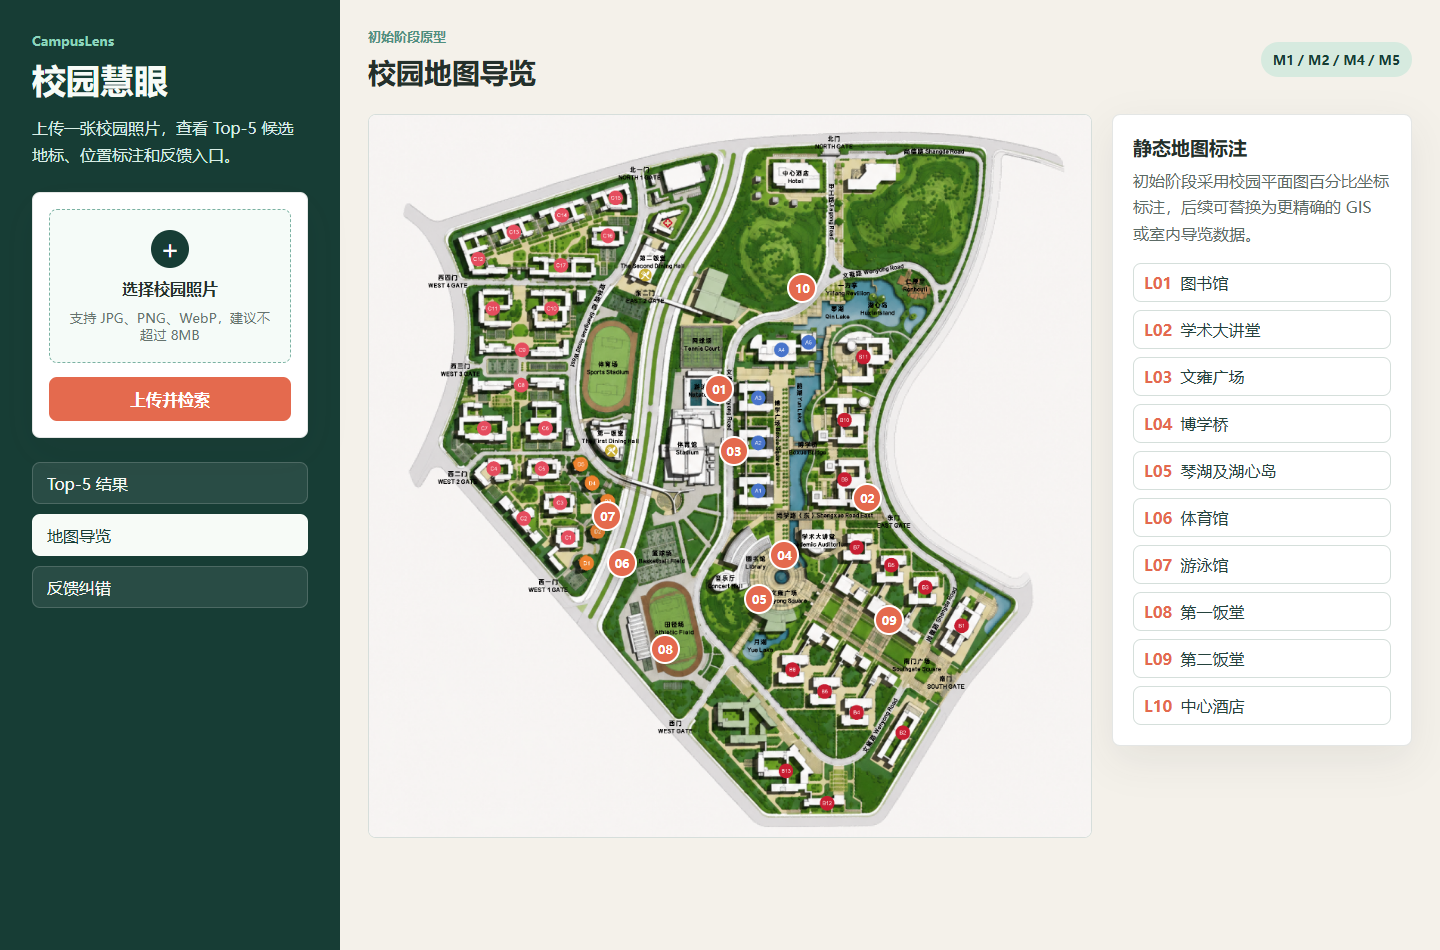
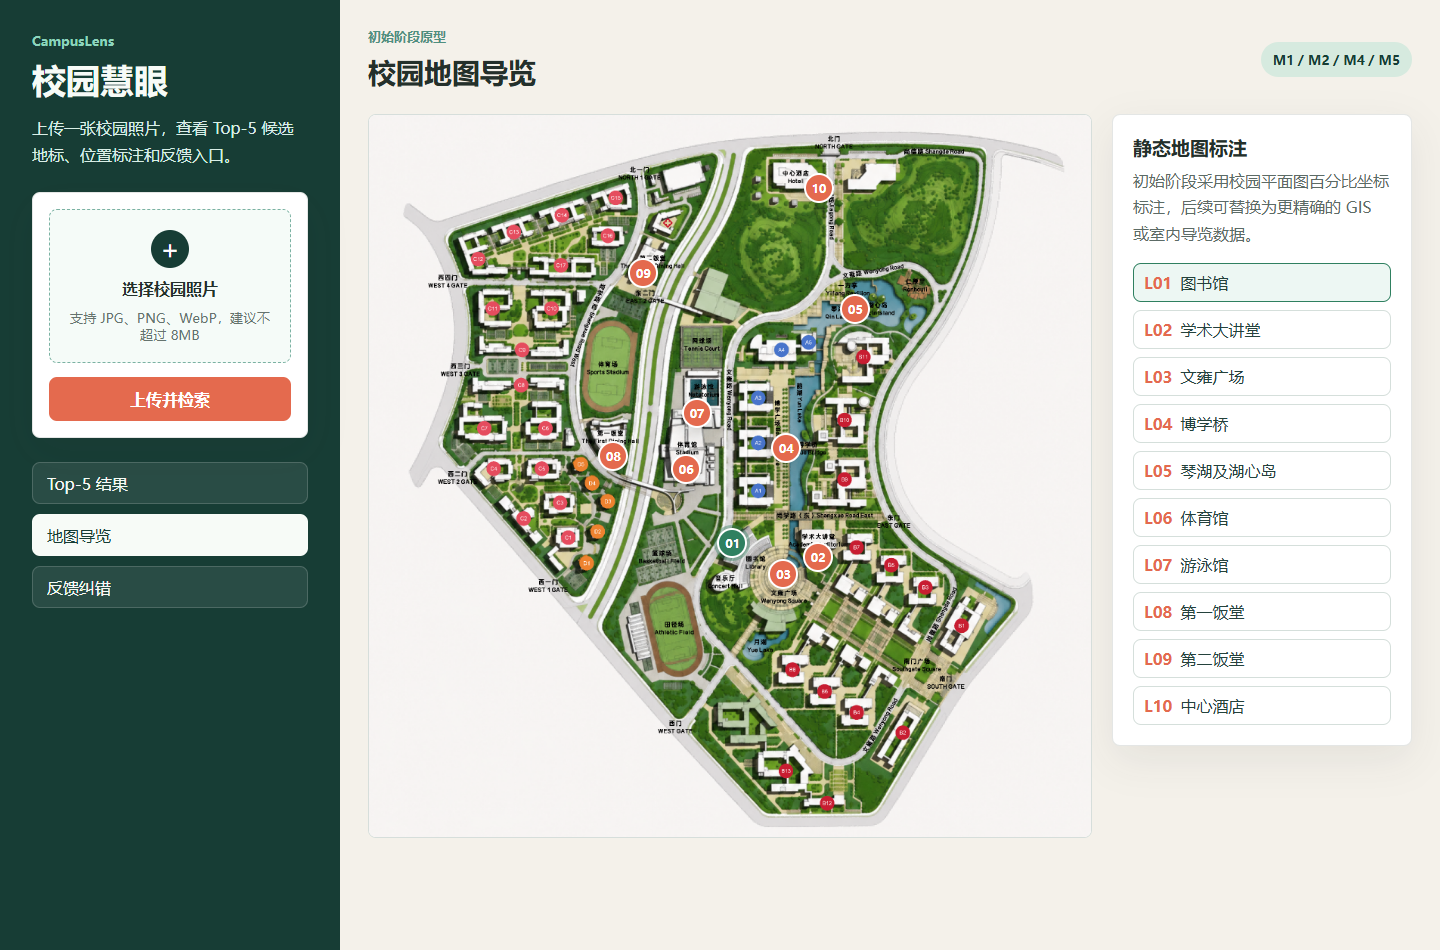
Sync landmark coords, map selection UI and docs
Update landmark coordinates across backend (LandmarkService), DB seed (seed_landmarks.sql) and frontend demo data to ensure consistent map markers. Enhance frontend map interaction: add active styling, selection class, stop-propagation click handler and selectMapLandmark logic; include corresponding CSS. Clarify project scope and workflow in multiple docs/READMEs (backend, frontend, API contract, runbook, development notes): first-week minimal engineering uses in-memory/demo Top-5 results, MySQL persistence and algorithm service integration are deferred, and landmark sample images are to be manually collected/organized per dataset rules. Also update prototype map image.

diff --git a/frontend/src/App.vue b/frontend/src/App.vue
@@ -77,9 +77,11 @@
             v-for="item in landmarks"
             :key="item.id"
             class="map-marker"
+            :class="{ active: item.id === selectedId }"
             :style="{ left: item.mapX + '%', top: item.mapY + '%' }"
             :title="item.name"
-            @click="selectLandmark(item.id)"
+            type="button"
+            @click.stop="selectMapLandmark(item.id)"
           >
             {{ item.code.slice(1) }}
           </button>
@@ -88,7 +90,13 @@
           <h3>静态地图标注</h3>
           <p>初始阶段采用校园平面图百分比坐标标注，后续可替换为更精确的 GIS 或室内导览数据。</p>
           <div class="legend-list">
-            <button v-for="item in landmarks" :key="item.code" @click="selectLandmark(item.id)">
+            <button
+              v-for="item in landmarks"
+              :key="item.code"
+              :class="{ active: item.id === selectedId }"
+              type="button"
+              @click="selectMapLandmark(item.id)"
+            >
               <span>{{ item.code }}</span>{{ item.name }}
             </button>
           </div>
@@ -132,16 +140,16 @@
 import { computed, onMounted, reactive, ref } from 'vue'
 
 const demoLandmarks = [
-  { id: 1, code: 'L01', name: '图书馆', englishName: 'Library', type: '建筑', summary: '校园核心学习空间，建筑体量大、外立面辨识度高。', description: '图书馆位于文雍广场附近，是学生自习、借阅和课程资料检索的主要场所。', locationText: '文雍广场附近', mapX: 48.5, mapY: 38 },
-  { id: 2, code: 'L02', name: '学术大讲堂', englishName: 'Academic Auditorium', type: '建筑', summary: '大型报告与答辩活动场所，适合作为答辩演示样本。', description: '学术大讲堂靠近东门，常用于学术报告、会议与集中教学活动。', locationText: '东门附近', mapX: 69, mapY: 53 },
-  { id: 3, code: 'L03', name: '文雍广场', englishName: 'Wenyong Square', type: '广场', summary: '校园开放空间与人流汇聚点，便于地图静态标注。', description: '文雍广场位于图书馆前，是校园公共活动与通行的重要节点。', locationText: '图书馆前', mapX: 50.5, mapY: 46.5 },
-  { id: 4, code: 'L04', name: '博学桥', englishName: 'Boxue Bridge', type: '桥梁', summary: '连接湖区两侧的桥梁景观，适合作为地标景观样本。', description: '博学桥位于韵湖沿线，桥体、湖面和周边道路共同形成稳定的视觉特征。', locationText: '韵湖沿线', mapX: 57.5, mapY: 61 },
-  { id: 5, code: 'L05', name: '琴湖及湖心岛', englishName: 'Qin Lake / Huxin Island', type: '湖区', summary: '湖泊与岛屿组合景观，外观特征明显。', description: '琴湖及湖心岛位于文雍路东侧，水域、绿化和湖心岛轮廓适合进行地标图像检索。', locationText: '文雍路东侧', mapX: 54, mapY: 67 },
-  { id: 6, code: 'L06', name: '体育馆', englishName: 'Stadium', type: '场馆', summary: '体育活动场馆，建筑边界清晰。', description: '体育馆位于文雍路西侧，服务课程教学、赛事活动和学生日常锻炼。', locationText: '文雍路西侧', mapX: 35, mapY: 62 },
-  { id: 7, code: 'L07', name: '游泳馆', englishName: 'Natatorium', type: '场馆', summary: '运动场馆类地标，适合与体育馆形成区分样本。', description: '游泳馆位于体育馆北侧，是运动场馆类地标。', locationText: '体育馆北侧', mapX: 33, mapY: 55.5 },
-  { id: 8, code: 'L08', name: '第一饭堂', englishName: 'The First Dining Hall', type: '生活服务', summary: '生活服务类建筑，面向学生日常场景。', description: '第一饭堂位于尚学路西侧，属于学生高频到达地点。', locationText: '尚学路西侧', mapX: 41, mapY: 74 },
-  { id: 9, code: 'L09', name: '第二饭堂', englishName: 'The Second Dining Hall', type: '生活服务', summary: '生活服务类建筑，可与第一饭堂对比识别。', description: '第二饭堂位于东二门附近，与第一饭堂同属生活服务类建筑。', locationText: '东二门附近', mapX: 72, mapY: 70 },
-  { id: 10, code: 'L10', name: '中心酒店', englishName: 'Hotel', type: '建筑', summary: '校内接待建筑，靠近北门且地图标注清晰。', description: '中心酒店位于北门内侧，主要用于校内接待和住宿服务。', locationText: '北门内侧', mapX: 60, mapY: 24 }
+  { id: 1, code: 'L01', name: '图书馆', englishName: 'Library', type: '建筑', summary: '校园核心学习空间，建筑体量大、外立面辨识度高。', description: '图书馆位于文雍广场附近，是学生自习、借阅和课程资料检索的主要场所。', locationText: '文雍广场附近', mapX: 50.31, mapY: 59.33 },
+  { id: 2, code: 'L02', name: '学术大讲堂', englishName: 'Academic Auditorium', type: '建筑', summary: '大型报告与答辩活动场所，适合作为答辩演示样本。', description: '学术大讲堂靠近东门，常用于学术报告、会议与集中教学活动。', locationText: '东门附近', mapX: 62.16, mapY: 61.22 },
+  { id: 3, code: 'L03', name: '文雍广场', englishName: 'Wenyong Square', type: '广场', summary: '校园开放空间与人流汇聚点，便于地图静态标注。', description: '文雍广场位于图书馆前，是校园公共活动与通行的重要节点。', locationText: '图书馆前', mapX: 57.37, mapY: 63.56 },
+  { id: 4, code: 'L04', name: '博学桥', englishName: 'Boxue Bridge', type: '桥梁', summary: '连接湖区两侧的桥梁景观，适合作为地标景观样本。', description: '博学桥位于韵湖沿线，桥体、湖面和周边道路共同形成稳定的视觉特征。', locationText: '韵湖沿线', mapX: 57.75, mapY: 46.17 },
+  { id: 5, code: 'L05', name: '琴湖及湖心岛', englishName: 'Qin Lake / Huxin Island', type: '湖区', summary: '湖泊与岛屿组合景观，外观特征明显。', description: '琴湖及湖心岛位于文雍路东侧，水域、绿化和湖心岛轮廓适合进行地标图像检索。', locationText: '文雍路东侧', mapX: 67.32, mapY: 26.88 },
+  { id: 6, code: 'L06', name: '体育馆', englishName: 'Stadium', type: '场馆', summary: '体育活动场馆，建筑边界清晰。', description: '体育馆位于文雍路西侧，服务课程教学、赛事活动和学生日常锻炼。', locationText: '文雍路西侧', mapX: 43.88, mapY: 49.07 },
+  { id: 7, code: 'L07', name: '游泳馆', englishName: 'Natatorium', type: '场馆', summary: '运动场馆类地标，适合与体育馆形成区分样本。', description: '游泳馆位于体育馆北侧，是运动场馆类地标。', locationText: '体育馆北侧', mapX: 45.39, mapY: 41.25 },
+  { id: 8, code: 'L08', name: '第一饭堂', englishName: 'The First Dining Hall', type: '生活服务', summary: '生活服务类建筑，面向学生日常场景。', description: '第一饭堂位于尚学路西侧，属于学生高频到达地点。', locationText: '尚学路西侧', mapX: 33.8, mapY: 47.17 },
+  { id: 9, code: 'L09', name: '第二饭堂', englishName: 'The Second Dining Hall', type: '生活服务', summary: '生活服务类建筑，可与第一饭堂对比识别。', description: '第二饭堂位于东二门附近，与第一饭堂同属生活服务类建筑。', locationText: '东二门附近', mapX: 37.96, mapY: 21.84 },
+  { id: 10, code: 'L10', name: '中心酒店', englishName: 'Hotel', type: '建筑', summary: '校内接待建筑，靠近北门且地图标注清晰。', description: '中心酒店位于北门内侧，主要用于校内接待和住宿服务。', locationText: '北门内侧', mapX: 62.28, mapY: 10.12 }
 ]
 
 const landmarks = ref(demoLandmarks)
@@ -220,6 +228,10 @@ async function submitSearch() {
 function selectLandmark(id) {
   selectedId.value = id
   activeView.value = 'results'
+}
+
+function selectMapLandmark(id) {
+  selectedId.value = id
 }
 
 function openFeedback(item) {

diff --git a/frontend/src/styles.css b/frontend/src/styles.css
@@ -321,6 +321,11 @@ h3 {
   box-shadow: 0 8px 20px rgba(36, 48, 43, 0.24);
 }
 
+.map-marker.active {
+  outline: 3px solid rgba(47, 128, 96, 0.4);
+  background: #2f8060;
+}
+
 .map-summary {
   padding: 20px;
   align-self: start;
@@ -337,6 +342,11 @@ h3 {
   gap: 8px;
   padding: 8px 10px;
   text-align: left;
+}
+
+.legend-list button.active {
+  border-color: #2f8060;
+  background: #edf7f3;
 }
 
 .legend-list span {

diff --git a/backend/src/main/java/com/campuslens/service/LandmarkService.java b/backend/src/main/java/com/campuslens/service/LandmarkService.java
@@ -14,43 +14,43 @@ public class LandmarkService {
       landmark(1L, "L01", "图书馆", "Library", "建筑",
           "校园核心学习空间，建筑体量大、外立面辨识度高。",
           "图书馆位于文雍广场附近，是学生自习、借阅和课程资料检索的主要场所。建筑正立面开阔，适合作为图像检索的代表性样本。",
-          "文雍广场附近", 48.5, 38.0),
+          "文雍广场附近", 50.31, 59.33),
       landmark(2L, "L02", "学术大讲堂", "Academic Auditorium", "建筑",
           "大型报告与答辩活动场所，适合作为答辩演示样本。",
           "学术大讲堂靠近东门，常用于学术报告、会议与集中教学活动，入口与外立面具有较强辨识度。",
-          "东门附近", 69.0, 53.0),
+          "东门附近", 62.16, 61.22),
       landmark(3L, "L03", "文雍广场", "Wenyong Square", "广场",
           "校园开放空间与人流汇聚点，便于地图静态标注。",
           "文雍广场位于图书馆前，是校园公共活动与通行的重要节点，适合作为室外场景识别对象。",
-          "图书馆前", 50.5, 46.5),
+          "图书馆前", 57.37, 63.56),
       landmark(4L, "L04", "博学桥", "Boxue Bridge", "桥梁",
           "连接湖区两侧的桥梁景观，适合作为地标景观样本。",
           "博学桥位于韵湖沿线，桥体、湖面和周边道路共同形成稳定的视觉特征。",
-          "韵湖沿线", 57.5, 61.0),
+          "韵湖沿线", 57.75, 46.17),
       landmark(5L, "L05", "琴湖及湖心岛", "Qin Lake / Huxin Island", "湖区",
           "湖泊与岛屿组合景观，外观特征明显。",
           "琴湖及湖心岛位于文雍路东侧，水域、绿化和湖心岛轮廓适合进行地标图像检索。",
-          "文雍路东侧", 54.0, 67.0),
+          "文雍路东侧", 67.32, 26.88),
       landmark(6L, "L06", "体育馆", "Stadium", "场馆",
           "体育活动场馆，建筑边界清晰。",
           "体育馆位于文雍路西侧，服务课程教学、赛事活动和学生日常锻炼，场馆外形便于识别。",
-          "文雍路西侧", 35.0, 62.0),
+          "文雍路西侧", 43.88, 49.07),
       landmark(7L, "L07", "游泳馆", "Natatorium", "场馆",
           "运动场馆类地标，适合与体育馆形成区分样本。",
           "游泳馆位于体育馆北侧，是运动场馆类地标，后续可通过入口、外墙和周边环境与体育馆区分。",
-          "体育馆北侧", 33.0, 55.5),
+          "体育馆北侧", 45.39, 41.25),
       landmark(8L, "L08", "第一饭堂", "The First Dining Hall", "生活服务",
           "生活服务类建筑，面向学生日常场景。",
           "第一饭堂位于尚学路西侧，属于学生高频到达地点，可支撑新生和访客的日常导览场景。",
-          "尚学路西侧", 41.0, 74.0),
+          "尚学路西侧", 33.8, 47.17),
       landmark(9L, "L09", "第二饭堂", "The Second Dining Hall", "生活服务",
           "生活服务类建筑，可与第一饭堂对比识别。",
           "第二饭堂位于东二门附近，与第一饭堂同属生活服务类建筑，后续需要通过样本角度和位置特征提升区分度。",
-          "东二门附近", 72.0, 70.0),
+          "东二门附近", 37.96, 21.84),
       landmark(10L, "L10", "中心酒店", "Hotel", "建筑",
           "校内接待建筑，靠近北门且地图标注清晰。",
           "中心酒店位于北门内侧，主要用于校内接待和住宿服务，适合纳入访客导览场景。",
-          "北门内侧", 60.0, 24.0));
+          "北门内侧", 62.28, 10.12));
 
   public List<LandmarkSummary> list() {
     return landmarks.stream().map(this::summary).toList();

diff --git a/docs/06_development_notes.md b/docs/06_development_notes.md
@@ -244,11 +244,12 @@ CampusLens 是面向校园新生、访客和校内用户的校园地标智能检
 | 用例编号 | 用例名称 | 主要参与者 | 简要说明 |
 | --- | --- | --- | --- |
 | UC-01 | 上传图片检索地标 | 普通用户 | 用户上传校园照片，系统返回 Top-5 候选地标 |
-| UC-02 | 查看地标详情 | 普通用户 | 用户查看地标简介、图片、开放时间和地图位置 |
-| UC-03 | 提交识别纠错反馈 | 普通用户 | 用户发现识别结果不准确时提交正确地标或说明 |
-| UC-04 | 维护地标资料 | 管理员 | 管理员新增、修改、删除地标基础信息 |
-| UC-05 | 管理地标样本图片 | 管理员 | 管理员为地标上传样本图并触发特征生成 |
-| UC-06 | 重建检索索引 | 管理员或系统 | 系统根据样本图特征重建向量索引 |
+| UC-02 | 查看检索结果 | 普通用户 | 用户查看 Top-5 候选地标、相似度、简介和反馈入口 |
+| UC-03 | 查看地标详情 | 普通用户 | 用户查看地标简介、位置说明和静态地图标注 |
+| UC-04 | 提交识别纠错反馈 | 普通用户 | 用户发现识别结果不准确时提交正确地标或说明 |
+| UC-05 | 维护地标资料 | 管理员 | 管理员新增、修改、删除地标基础信息 |
+| UC-06 | 管理地标样本图片 | 管理员 | 管理员或成员手动整理地标样本图并维护路径说明 |
+| UC-07 | 重建检索索引 | 管理员或系统 | 系统根据样本图特征重建向量索引 |
 
 ## 5. 第一周应该做什么
 

diff --git a/docs/07_initial_stage_m1_m2_m4_m5.md b/docs/07_initial_stage_m1_m2_m4_m5.md
@@ -8,13 +8,13 @@
 
 已在 `backend/` 建立 Spring Boot 最小工程，提供健康检查、地标列表、地标详情、图片上传检索和反馈提交接口。图片上传接口当前完成基础校验、上传文件保存和 Top-5 演示结果返回，能够支撑前端原型联调和接口样例验证。
 
-当前版本未直接调用算法服务，`SearchService` 保留了接入边界。第二周进入细化阶段后，应将演示结果替换为调用 `algorithm` 的 `POST /api/v1/search`，并将 `searchRecordId`、上传图路径和 Top-5 结果快照持久化到 MySQL。
+当前版本未直接调用算法服务，`SearchService` 保留了接入边界。第二周进入细化阶段后，应将演示结果替换为调用 `algorithm` 的 `POST /api/v1/search`，并补齐 `searchRecordId`、上传图路径和 Top-5 结果快照的数据口径。后端 MySQL 持久化暂不作为第一周实现内容，当前仅完成表结构、种子脚本和接口字段准备。
 
 ## M2 地标图像库与元数据管理
 
 首批 L01-L10 地标已经统一编号、名称、英文名、类型、位置描述、简介和地图标注坐标。数据库种子脚本已补充 `description`、`map_x`、`map_y` 和 `cover_image_url`，与前端展示字段和接口契约保持一致。
 
-数据集目录继续保留 `.gitkeep`，原图不直接提交。第一周重点是明确每个地标不少于 20 张样本图片、代表图选择和命名规则，第二周由成员按 `docs/04_dataset_rules.md` 执行采集与清洗。
+数据集目录继续保留 `.gitkeep`，原图不直接提交。第一周重点是明确每个地标不少于 20 张样本图片、代表图选择和命名规则；样本图片由成员按 `docs/04_dataset_rules.md` 手动采集、整理并上传到课程指定位置或本地数据目录，第二周再用于算法索引构建和检索验证。
 
 ## M4 检索结果展示与地图导览
 
@@ -26,8 +26,8 @@
 
 反馈接口和前端表单已支持 `correct`、`wrong`、`uncertain` 三类反馈。错误反馈需要提供正确地标，正确反馈可将预测地标和确认地标保持一致，不确定反馈允许不指定确认地标。
 
-当前版本反馈记录暂存为接口响应，不做持久化。第四周可扩展为后台反馈列表、审核状态、采纳记录和统计图表；第二周只需保证结果页可进入反馈入口，并能形成 `searchRecordId` 与反馈数据的衔接。
+当前版本反馈记录暂存为接口响应，不做 MySQL 持久化。第四周可扩展为后台反馈列表、审核状态、采纳记录和统计图表；第二周只需保证结果页可进入反馈入口，并能形成 `searchRecordId` 与反馈数据的衔接。
 
 ## 后续衔接
 
-第二周优先打通“上传图片 -> 调用算法服务 -> 返回 Top-5 地标 -> 前端展示结果”的主流程。M2 继续提供基础地标和样本图片，M4 在真实结果上完善展示细节，M5 在主流程稳定后补充反馈记录持久化。
+第二周优先打通“上传图片 -> 调用算法服务 -> 返回 Top-5 地标 -> 前端展示结果”的主流程。M2 继续提供基础地标和手动整理的样本图片，M4 在真实结果上完善展示细节，M5 在主流程稳定后补充反馈记录的数据口径和后续持久化方案。

diff --git a/docs/02_api_contract.md b/docs/02_api_contract.md
@@ -4,7 +4,7 @@
 
 ## 调用关系
 
-用户端调用 Spring Boot 后端接口；后端负责鉴权、文件校验、业务记录和数据组装。图像特征提取与检索由后端调用 Python FastAPI 算法服务完成。
+用户端调用 Spring Boot 后端接口；后端负责文件校验、业务记录和数据组装。图像特征提取与检索由后端调用 Python FastAPI 算法服务完成。第一周最小工程暂不连接 MySQL，也不直接调用算法服务，当前以演示 Top-5 验证接口和原型衔接。
 
 ```text
 Vue 前端 -> Spring Boot 后端 -> Python FastAPI 算法服务
@@ -66,7 +66,8 @@ Vue 前端 -> Spring Boot 后端 -> Python FastAPI 算法服务
 - 第一周最小工程限制上传图片类型为 JPG、PNG、WebP。
 - 单张图片大小上限为 8MB。
 - 后端保存上传图后返回 `uploadImageUrl`，运行目录下的 `uploads/` 不提交到 Git。
-- 当前最小工程返回演示 Top-5 结果，第二周替换为调用算法服务并写入真实检索记录。
+- 当前最小工程返回演示 Top-5 结果，第二周替换为调用算法服务并补齐真实检索记录口径。
+- 地标样本图片由成员手动采集、整理和上传到课程指定位置或本地数据目录，仓库只保留目录结构和采集规范。
 
 ## 反馈规则
 

diff --git a/backend/README.md b/backend/README.md
@@ -38,7 +38,7 @@ GET http://localhost:8080/api/health
 
 ## 当前实现边界
 
-当前版本服务于第一周初始阶段交付，采用内存地标数据和演示 Top-5 结果。`SearchService` 已保留算法服务集成边界，第二周可替换为调用 `http://localhost:8000/api/v1/search`，并将检索记录和反馈记录落库到 MySQL。
+当前版本服务于第一周初始阶段交付，采用内存地标数据和演示 Top-5 结果。`SearchService` 已保留算法服务集成边界，第二周可替换为调用 `http://localhost:8000/api/v1/search`。后端 MySQL 持久化暂不作为第一周实现内容，当前仅完成表结构、种子脚本和接口字段准备，检索记录与反馈记录后续再按迭代计划接入。
 
 上传图片会保存到 `uploads/yyyyMMdd/`，该目录已由 `.gitignore` 排除。
 

diff --git a/docs/09_interface_runbook.md b/docs/09_interface_runbook.md
@@ -59,6 +59,7 @@ http://localhost:5173
 - 后端最小工程暂不连接 MySQL。
 - 图片上传保存到运行目录的 `uploads/`，该目录不进入 Git。
 - 检索结果为演示数据，第二周替换为算法服务真实结果。
+- 地标样本图片由成员按采集规范手动采集和上传整理，仓库当前只保留目录结构与规范说明。
 - 前端 dev server 通过 Vite proxy 访问后端接口，默认端口为 5173。
 
 ## 常见问题
@@ -70,3 +71,4 @@ http://localhost:5173
 | 8080 或 5173 端口占用 | 先运行 `scripts\stop-dev.cmd`；若仍占用，说明可能是手动启动的服务，需要关闭对应窗口 |
 | 前端页面打开但接口失败 | 确认后端窗口仍在运行，并访问 `http://localhost:8080/api/health` |
 | 上传图片后返回演示结果 | 当前为第一周初始阶段最小工程，第二周接入算法服务后替换为真实检索结果 |
+| 找不到样本图片 | 第一周不在 Git 中提交批量原图，按采集规范从课程指定位置或本地数据目录手动整理 |

diff --git a/frontend/README.md b/frontend/README.md
@@ -27,7 +27,7 @@ http://localhost:5173
 
 ## 当前实现边界
 
-页面会优先请求后端接口；若后端暂未启动，地标列表使用前端内置演示数据，保证原型可单独预览。第二周联调时，应将演示数据逐步替换为真实后端和算法服务结果。
+页面会优先请求后端接口；若后端暂未启动，地标列表使用前端内置演示数据，保证原型可单独预览。第一周上传检索结果仍为后端演示 Top-5，样本图片由成员手动采集和上传整理。第二周联调时，应将演示数据逐步替换为真实后端和算法服务结果。
 
 ## 构建
 